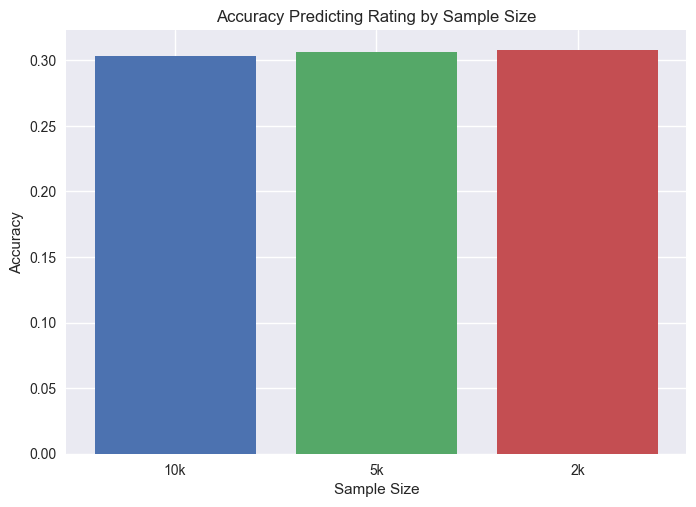
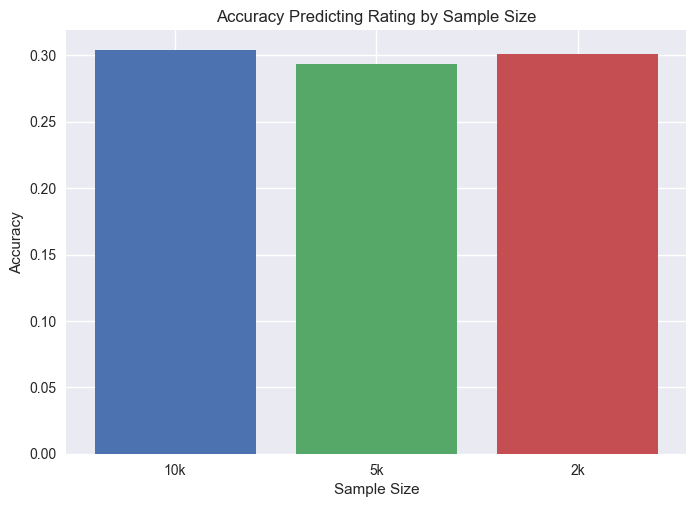
Set cross validation to 10 folds

diff --git a/sources/genre.py b/sources/genre.py
@@ -43,7 +43,7 @@ def train_genres(data):
     train_y, test_y = y[:split], y[split:]
 
     model = tree.DecisionTreeClassifier()
-    k = 3
+    k = 10
     accuracy = kfoldscv(model, k, X, y)
 
     model.fit(train_X, train_y)

diff --git a/sources/rating.py b/sources/rating.py
@@ -27,7 +27,7 @@ def train_rating(data):
 
     model = linear_model.LinearRegression(fit_intercept=True)
     
-    k = 3
+    k = 10
     z = kfoldscv(model, k, X, y)
 
     model.fit(train_X, train_y)
